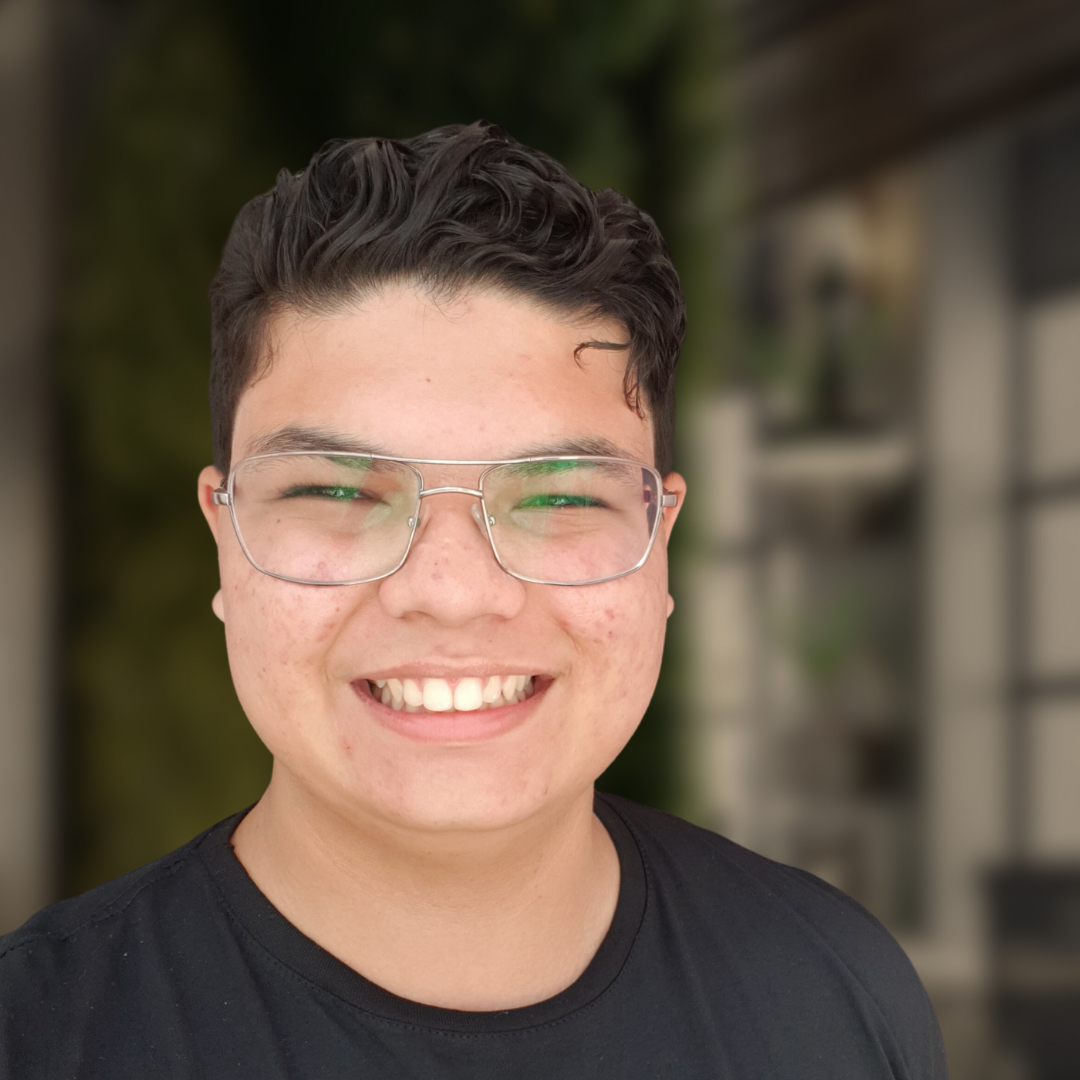
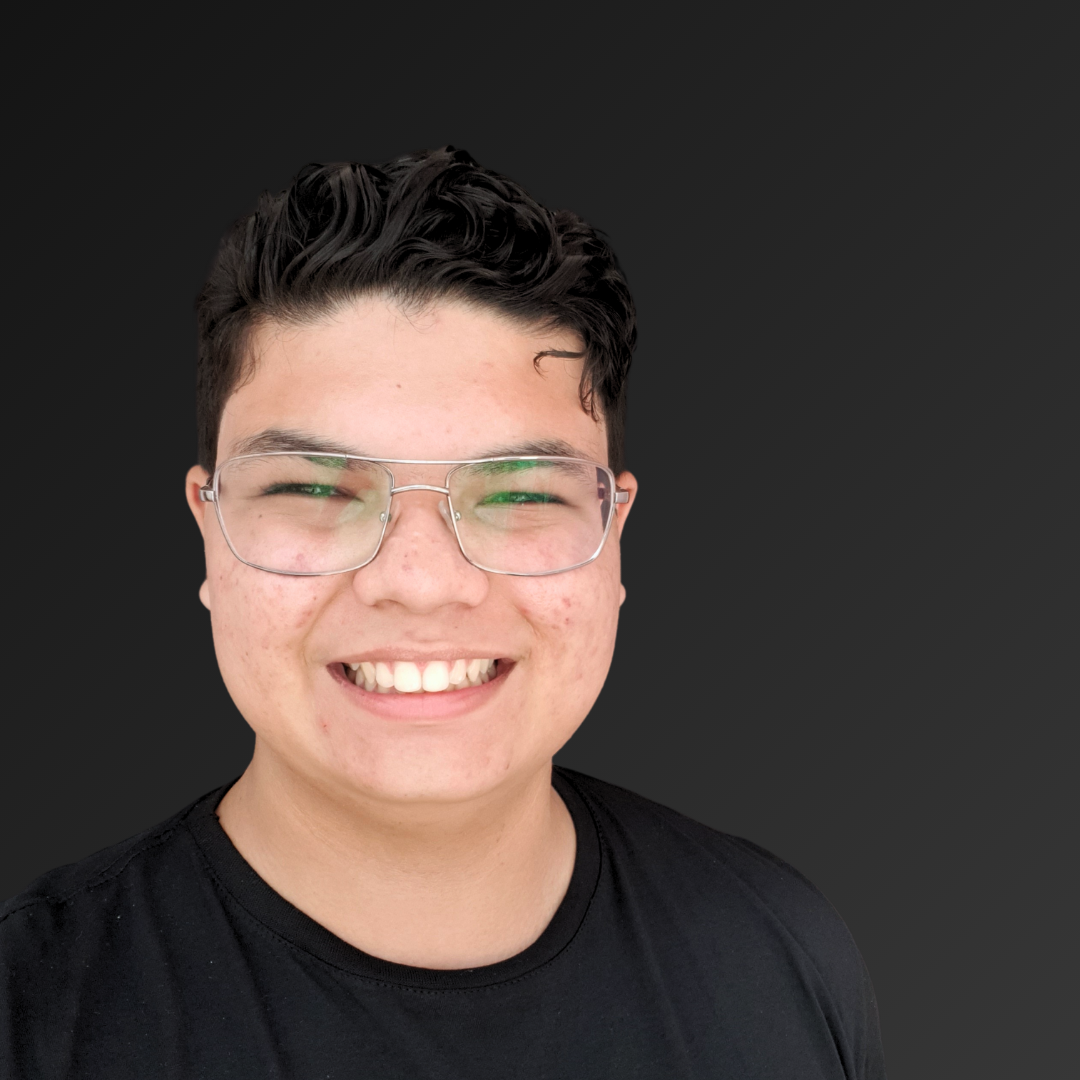
style: reset changes && upload profile picture

diff --git a/style.css b/style.css
@@ -1,26 +1,15 @@
 @charset "UTF-8";
-@import url("https://fonts.googleapis.com/css2?family=Atkinson+Hyperlegible:ital,wght@0,400;0,700;1,400;1,700&display=swap");
+@import url('https://fonts.googleapis.com/css2?family=Heebo:wght@300;400;500;600;700;800&display=swap');
 
 * {
     margin: 0;
     padding: 0;
-    font-family: var(--main-font);
-}
-
-:root {
-    --main-font: "Atkinson Hyperlegible", sans-serif;
-
-    /* Catppuccin Theme: 🌿 Mocha */
-    --background-color: #1e1e2e;
-    --text-color: #cdd6f4;
-    --subtext-color: #bac2de;
-    --highlight-color0: #cba6f7;
-    --highlight-color1: #f2cdcd;
+    font-family: "Heebo", sans-serif;
 }
 
 body {
-    background-color: var(--background-color);
-}
+    background-color: #fff;
+} 
 
 #principal {
     display: flex;
@@ -34,9 +23,8 @@ body {
     margin-bottom: 100px;
 }
 
-#principal > h1,
-h2 {
-    font-family: "Heebo", sans-serif;
+#principal > h1, h2 {
+    font-family: 'Heebo', sans-serif;
     text-align: center;
 }
 
@@ -72,6 +60,7 @@ button {
     margin-top: 20px;
     border-radius: 5px;
 }
+
 
 #principal #img-links {
     display: flex;
@@ -148,7 +137,7 @@ i.posts-tag-1 {
     margin-right: 5px;
     font-style: normal;
     padding: 3px 5px;
-    background-color: #d4b1f4;
+    background-color: #D4B1F4;
     border-radius: 10px;
     user-select: none;
 }
@@ -160,6 +149,7 @@ i.posts-tag-2 {
     background-color: #f3f4b1;
     border-radius: 10px;
     user-select: none;
+
 }
 
 i.posts-tag-3 {
@@ -173,4 +163,5 @@ i.posts-tag-3 {
 
 .recent .posts .post-item p {
     max-width: 400px;
+
 }
